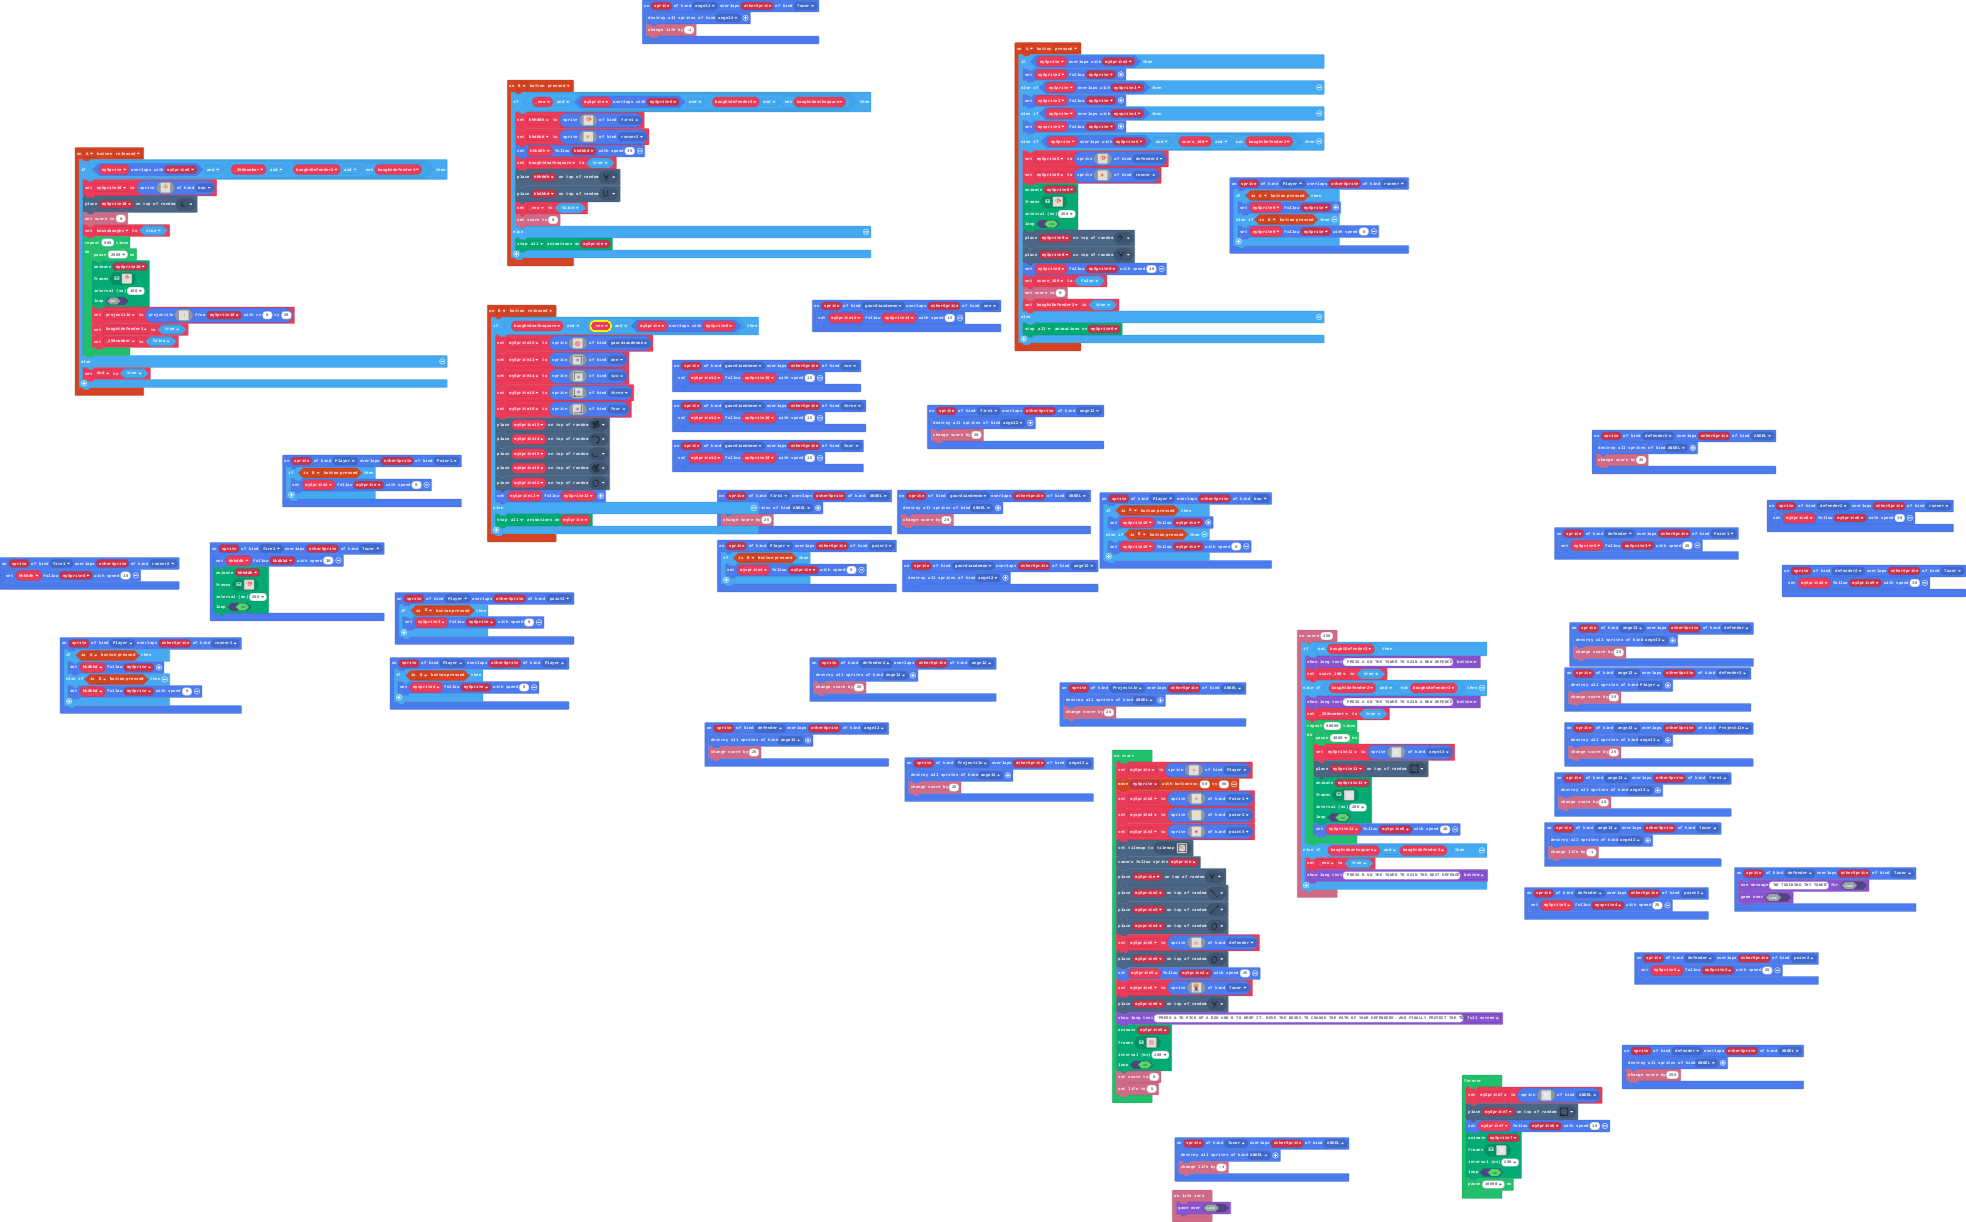
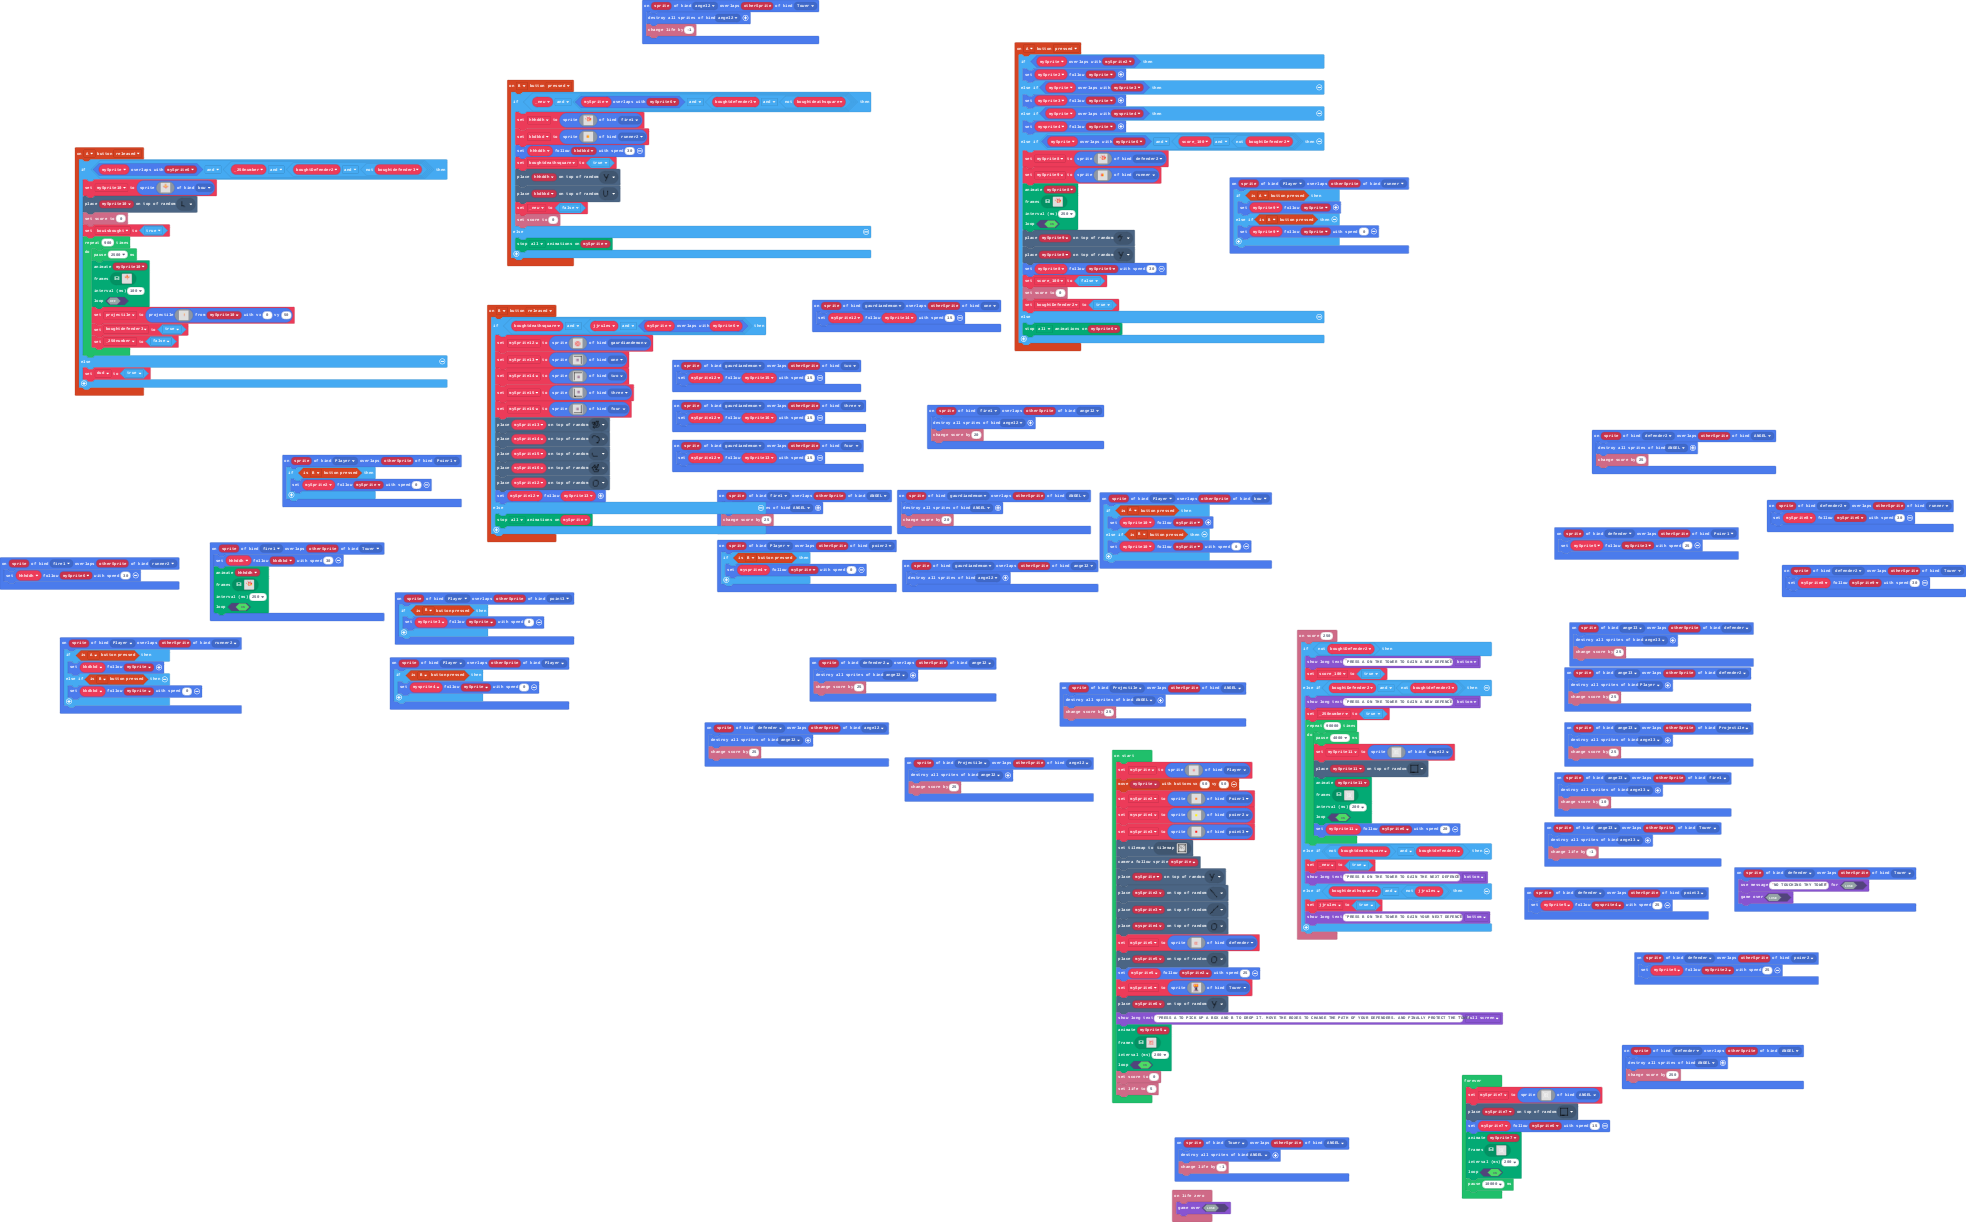
Update main.blocks, main.ts

Changed region(s): [[0.6516, 0.6841, 0.7757, 0.7774], [0.3723, 0.2488, 0.4034, 0.2799], [0.3103, 0.2488, 0.3413, 0.2799]]

diff --git a/main.ts b/main.ts
@@ -64,9 +64,12 @@ info.onScore(250, function () {
             )
             mySprite11.follow(mySprite6, 20)
         }
-    } else if (boughtdeathsquare && boughtdefender3) {
+    } else if (!(boughtdeathsquare) && boughtdefender3) {
         _new = true
         game.showLongText("PRESS B ON THE TOWER TO GAIN THE NEXT DEFENCE", DialogLayout.Bottom)
+    } else if (boughtdeathsquare && !(jjrules)) {
+        jjrules = true
+        game.showLongText("PRESS B ON THE TOWER TO GAIN YOUR NEXT DEFENCE", DialogLayout.Bottom)
     }
 })
 sprites.onOverlap(SpriteKind.defender, SpriteKind.point3, function (sprite, otherSprite) {
@@ -459,7 +462,7 @@ info.onLifeZero(function () {
     game.gameOver(false)
 })
 controller.B.onEvent(ControllerButtonEvent.Released, function () {
-    if (boughtdeathsquare && (_new && mySprite.overlapsWith(mySprite6))) {
+    if (boughtdeathsquare && (jjrules && mySprite.overlapsWith(mySprite6))) {
         mySprite12 = sprites.create(img`
             ........................
             ........................
@@ -623,6 +626,7 @@ let _new = false
 let mySprite11: Sprite = null
 let _250number = false
 let score_100 = false
+let jjrules = false
 let boughtdeathsquare = false
 let boughtdefender3 = false
 let boughtDefender2 = false
